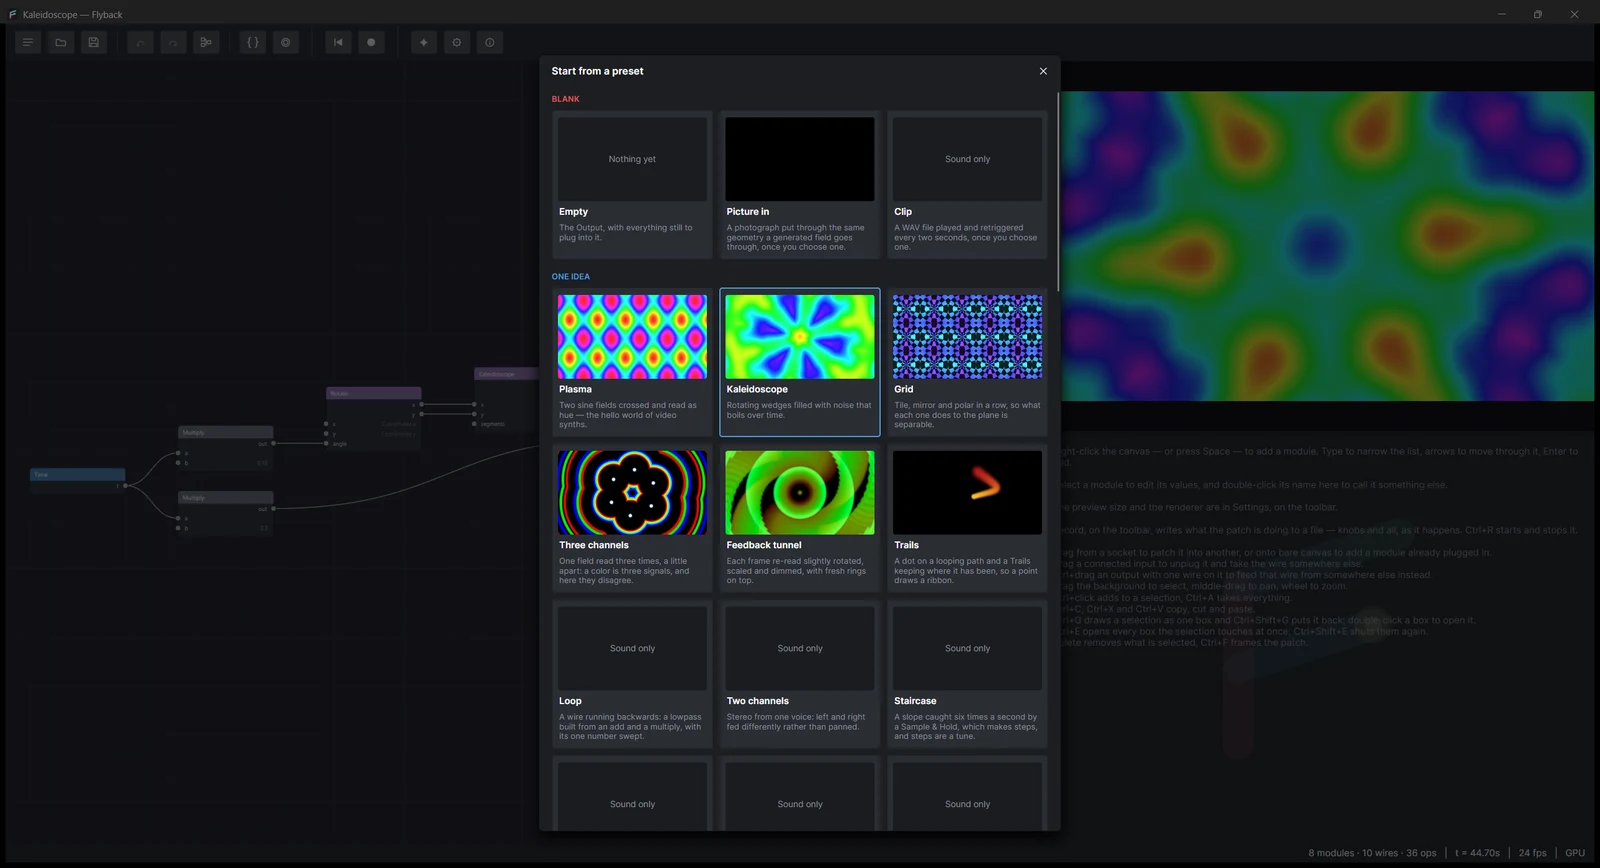
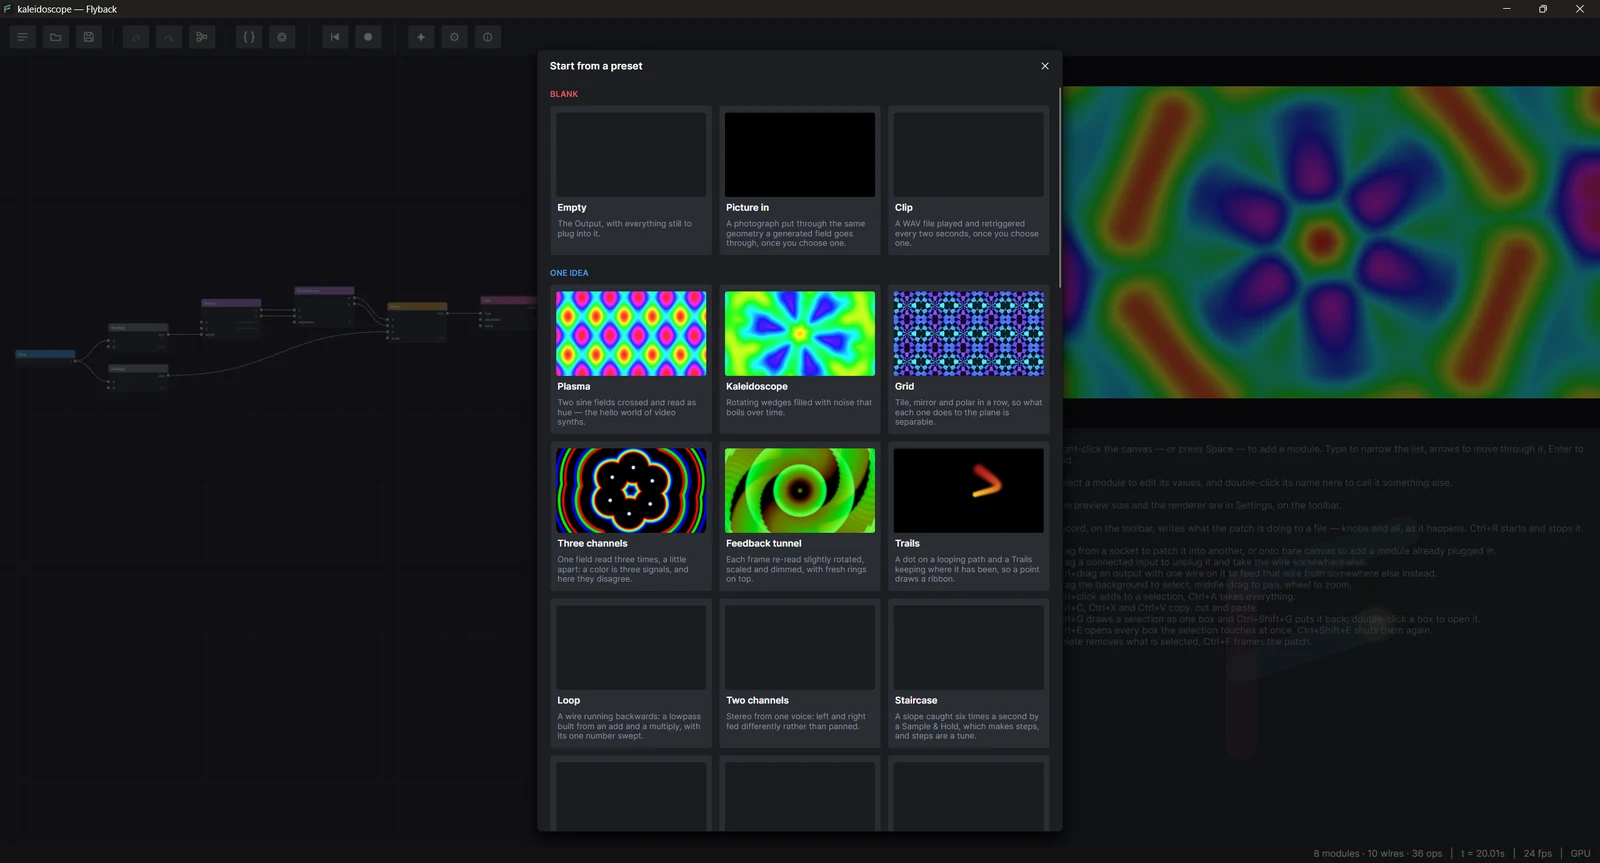
A preset with no picture leaves its tile bare
A tile for a preset that is only heard, or that has nothing wired yet, no longer says "Sound only" or "Nothing yet" where its picture would be. The name and description under it already say what it is, and the words read as clutter among the pictures. A preset that will not build still says "No preview", being a fault rather than a kind of preset.

The site's gallery screenshot is retaken to match.

diff --git a/site/index.html b/site/index.html
@@ -499,7 +499,7 @@ x |> sine(freq: 1.5)
         <div>
           <h3>Start from a preset</h3>
           <p>The first toolbar button opens a gallery of every preset: a tile for each, with a frame of what
-          it draws (or "Sound only" for one that is only heard), its name and a line saying what it shows,
+          it draws (left bare for one that is only heard), its name and a line saying what it shows,
           under a heading for each kind: the blank canvas and the two presets that wait on a file of yours,
           then the patches about one idea, then the ones where sound and picture
           are the same thought, then the showcases. Presets that plugins add appear under those same headings,
@@ -509,8 +509,8 @@ x |> sine(freq: 1.5)
         </div>
         <figure>
           <div class="window">
-            <img loading="lazy" src="assets/shots/presets-list.webp" width="1600" height="868"
-                 alt="The preset gallery open over the canvas, three tiles to a row: BLANK over Empty, Picture in and Clip and ONE IDEA over Plasma, Kaleidoscope, Grid, Three channels, Feedback tunnel and Trails, each with a frame of what it draws, its name and its description, over the Kaleidoscope patch.">
+            <img loading="lazy" src="assets/shots/presets-list.webp" width="1600" height="863"
+                 alt="The preset gallery open over the canvas, three tiles to a row: BLANK over Empty, Picture in and Clip and ONE IDEA over Plasma, Kaleidoscope, Grid, Three channels, Feedback tunnel, Trails, Loop, Two channels and Staircase, each with a frame of what it draws — left bare for Empty, Clip, Loop, Two channels and Staircase, which have no picture — its name and its description, over the Kaleidoscope patch.">
           </div>
         </figure>
       </div>

diff --git a/src/Flyback.App/Controls/PresetThumbnails.cs b/src/Flyback.App/Controls/PresetThumbnails.cs
@@ -11,14 +11,14 @@ namespace Flyback.App.Controls;
 /// A BGRA frame <see cref="PresetThumbnails.Width"/> by <see cref="PresetThumbnails.Height"/>,
 /// or null for a preset that has none to show.
 /// </param>
-/// <param name="Words">What the tile says instead. Empty when there are pixels.</param>
+/// <param name="Words">What the tile says instead. Empty when there are pixels, or nothing to say.</param>
 internal sealed record Thumbnail(byte[]? Pixels, string Words)
 {
-    /// <summary>A patch that is heard and never seen, which has no frame to take.</summary>
-    public static Thumbnail SoundOnly { get; } = new(null, "Sound only");
-
-    /// <summary>A patch with nothing wired to either half of the Output yet.</summary>
-    public static Thumbnail Nothing { get; } = new(null, "Nothing yet");
+    /// <summary>
+    /// A patch with no picture in it — one that is only heard, or one with nothing
+    /// wired yet. The tile is left bare, its name and description saying which.
+    /// </summary>
+    public static Thumbnail Blank { get; } = new(null, "");
 
     /// <summary>A patch that would not build or compile, so there is no frame to show.</summary>
     public static Thumbnail Unavailable { get; } = new(null, "No preview");
@@ -86,9 +86,7 @@ internal sealed class PresetThumbnails(ModuleCatalog modules)
             // A preset from a plugin is built here for the same reason the toolbar
             // builds it when it is picked: it needs the modules that plugin added.
             var patch = preset.Build(modules);
-            var (picture, sound) = patch.Reaches();
-
-            if (!picture) return sound ? Thumbnail.SoundOnly : Thumbnail.Nothing;
+            if (!patch.Reaches().Picture) return Thumbnail.Blank;
 
             var video = patch.CompileForVideo(
                 samples: new SampleLibrary(),

diff --git a/tests/Flyback.App.Tests/Ui/PresetListTests.cs b/tests/Flyback.App.Tests/Ui/PresetListTests.cs
@@ -191,24 +191,25 @@ public class PresetListTests : UiTest
     }
 
     /// <summary>
-    /// A preset with no picture in it has none to show, and says why in as many words
-    /// — a patch that is only heard, or one with nothing wired yet.
+    /// A preset with no picture in it — a patch that is only heard, or one with
+    /// nothing wired yet — leaves its tile bare: no frame, and no words over it.
     /// </summary>
     [AvaloniaFact]
-    public void A_preset_with_no_picture_says_so_where_the_picture_would_be()
+    public void A_preset_with_no_picture_leaves_its_tile_bare()
     {
         var window = Open();
 
         OpenGallery(window);
 
-        string Says(string preset) => All<TextBlock>(Tile(window, preset))
-            .Single(t => t.Parent is Grid).Text ?? "";
+        // Asked for after both, so by the time it is drawn they have been too:
+        // the thumbnails are taken one at a time.
+        UntilDrawn(window, () => All<Image>(Tile(window, "Plasma")).Single().Source is not null);
 
-        UntilDrawn(window, () => Says("Clip").Length > 0 && Says("Empty").Length > 0);
-
-        Says("Clip").ShouldBe("Sound only");
-        Says("Empty").ShouldBe("Nothing yet");
-        All<Image>(Tile(window, "Clip")).Single().Source.ShouldBeNull();
+        foreach (var preset in new[] { "Clip", "Empty" })
+        {
+            All<Image>(Tile(window, preset)).Single().Source.ShouldBeNull();
+            All<TextBlock>(Tile(window, preset)).Single(t => t.Parent is Grid).Text.ShouldBeNullOrEmpty();
+        }
     }
 
     /// <summary>

diff --git a/src/Flyback.App/Controls/PresetGallery.cs b/src/Flyback.App/Controls/PresetGallery.cs
@@ -88,8 +88,8 @@ internal static class PresetGallery
     {
         var image = new Image { Stretch = Stretch.UniformToFill };
 
-        // Said while the frame is still being drawn as well as when there is none
-        // to draw, so a tile is never a bare dark rectangle that might be a fault.
+        // Said only of a preset that would not draw. One with no picture in it is
+        // left bare, its name and description being what says so.
         var words = new TextBlock
         {
             FontSize = Text.Small,

diff --git a/CHANGELOG.md b/CHANGELOG.md
@@ -33,7 +33,7 @@
 - Slow weather is rebuilt around five feedback loops: a drone that bends its own phase, an echo that darkens every time round, two voices that push each other down, and a picture steered by where it was bright a frame ago.
 - Settings → Graphics picks which preset Flyback opens on at the next start.
 - The preset list is sorted into headed sections: the blank canvas first, then the patches about one idea, then the ones where sound and picture are the same thought, then the showcases.
-- The preset button opens a gallery of tiles, each with a picture of what the preset draws ("Sound only" when there is none), its name and its description.
+- The preset button opens a gallery of tiles, each with a picture of what the preset draws (left bare when there is none), its name and its description.
 - Resting the pointer on a preset in the gallery for a second plays it: its picture moves on the tile and its sound fades in, with your patch muted meanwhile.
 - The teaching presets are updated, with new ones in the engine and in the Picture, Voice and Mastering plugins.
 
